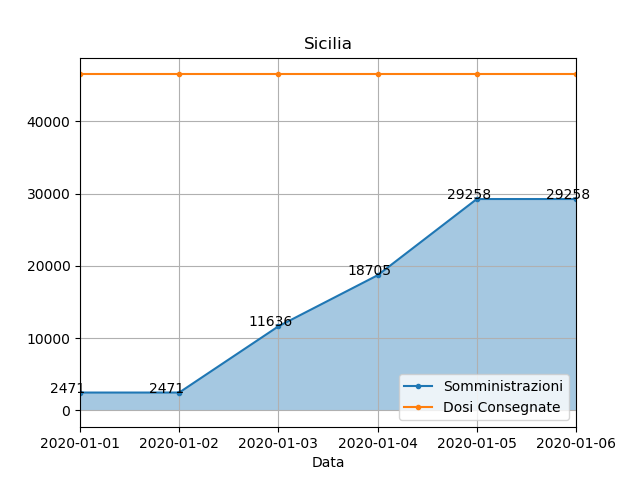
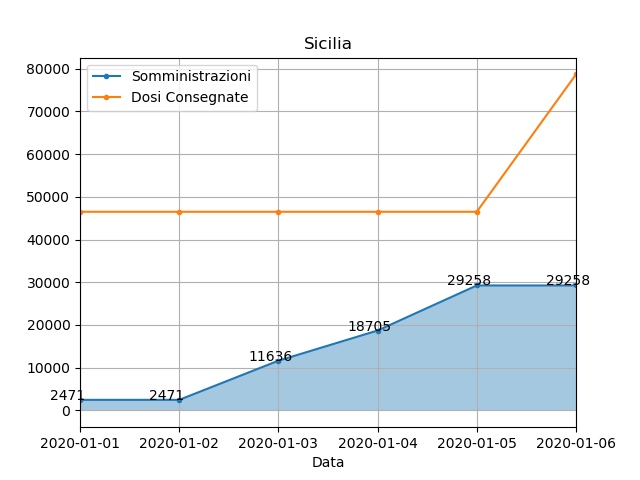
Reformat main variable: now in config.py New vaccine available from pfizer, more or less 215k

diff --git a/main.py b/main.py
@@ -1,36 +1,24 @@
 import conversione_csv
 import regions_elaboration
 import plot_regions
-
-DATE = '06_01'
-
-INPUT_PATH = 'E:/vaccinazione_COVID19/andamento_giornaliero_immagine/'
-DEST_PATH = 'E:/vaccinazione_COVID19/andamento_giornaliero/'
-DEST_PATH_GROUP = 'E:/vaccinazione_COVID19/andamento_giornaliero_gruppi/'
-DEST_PATH_CATEGORY = 'E:/vaccinazione_COVID19/andamento_giornaliero_categorie/'
-
-PATH = 'E:/vaccinazione_COVID19/andamento_giornaliero/'
-DEST_PATH_REGIONS = 'E:/vaccinazione_COVID19/andamento_giornaliero_regioni/'
-DEST_PATH_GRAFICI = 'E:/vaccinazione_COVID19/andamento_giornaliero_regioni_grafici/'
-
-LINK = "https://app.powerbi.com/view?r=eyJrIjoiMzg4YmI5NDQtZDM5ZC00ZTIyLTgxN2MtOTBkMWM4MTUyYTg0IiwidCI6ImFmZDBhNzVjLTg2NzEtNGNjZS05MDYxLTJjYTBkOTJlNDIyZiIsImMiOjh9"
+import config
 
 
 def main():
     print("CSV loading...")
-    conversione_csv.convertion(DATE, LINK, DEST_PATH, latest=True)
+    conversione_csv.convertion(config.DATE, config.LINK, config.DEST_PATH, latest=True)
 
-    conversione_csv.convertionGroup(DATE, LINK, DEST_PATH_GROUP, latest=True)
+    conversione_csv.convertionGroup(config.DATE, config.LINK, config.DEST_PATH_GROUP, latest=True)
 
-    conversione_csv.convertionCategory(DATE, LINK, DEST_PATH_CATEGORY, latest=True)
+    conversione_csv.convertionCategory(config.DATE, config.LINK, config.DEST_PATH_CATEGORY, latest=True)
     print("Done.")
 
     print("Regions creation..")
-    regions_elaboration.regionsElaborations(PATH, DEST_PATH_REGIONS)
+    regions_elaboration.regionsElaborations(config.PATH, config.DEST_PATH_REGIONS)
     print("Done.")
 
     print("Plotting regions..")
-    plot_regions.plotRegions(DEST_PATH_REGIONS, DEST_PATH_GRAFICI)
+    plot_regions.plotRegions(config.DEST_PATH_REGIONS, config.DEST_PATH_GRAFICI)
     print("Done.")
 
 

diff --git a/config.py b/config.py
@@ -1,0 +1,13 @@
+
+DATE = '06_01'
+
+INPUT_PATH = 'E:/vaccinazione_COVID19/andamento_giornaliero_immagine/'
+DEST_PATH = 'E:/vaccinazione_COVID19/andamento_giornaliero/'
+DEST_PATH_GROUP = 'E:/vaccinazione_COVID19/andamento_giornaliero_gruppi/'
+DEST_PATH_CATEGORY = 'E:/vaccinazione_COVID19/andamento_giornaliero_categorie/'
+
+PATH = 'E:/vaccinazione_COVID19/andamento_giornaliero/'
+DEST_PATH_REGIONS = 'E:/vaccinazione_COVID19/andamento_giornaliero_regioni/'
+DEST_PATH_GRAFICI = 'E:/vaccinazione_COVID19/andamento_giornaliero_regioni_grafici/'
+
+LINK = "https://app.powerbi.com/view?r=eyJrIjoiMzg4YmI5NDQtZDM5ZC00ZTIyLTgxN2MtOTBkMWM4MTUyYTg0IiwidCI6ImFmZDBhNzVjLTg2NzEtNGNjZS05MDYxLTJjYTBkOTJlNDIyZiIsImMiOjh9"
